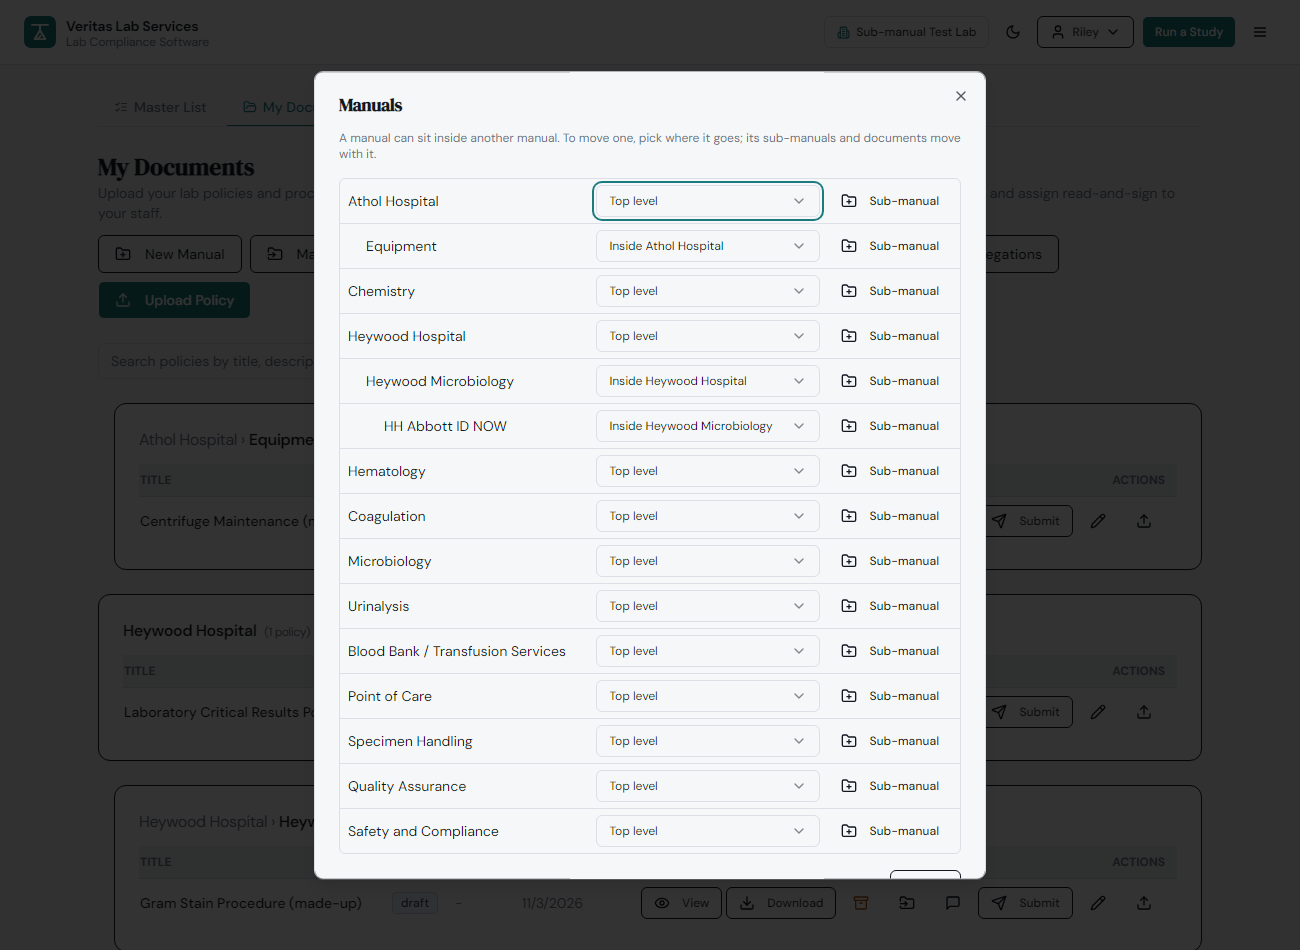
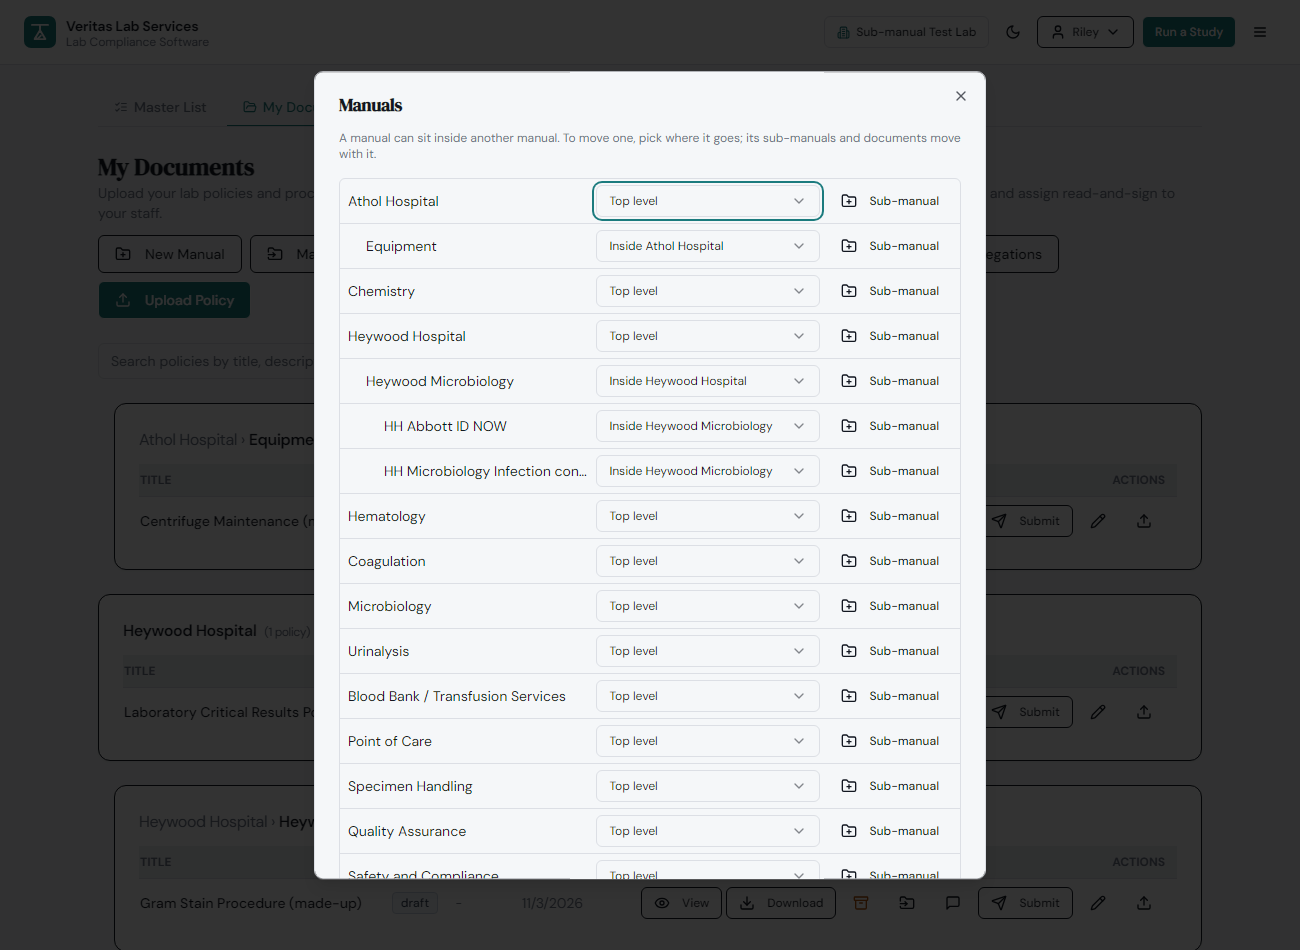
fix(veritadc): a long manual name no longer pushes the Manuals dialog past its edge
TASK: Production check of #1793 on lab 24 (QA system, 2026-11-04) showed the Manuals dialog's rows and Close button cut off at the right when a manual had a long name: the dialog is a CSS grid, so the tree grew to its longest name. Heywood has long names ("HH Microbiology Infection control/Epidemiology").
PLAN:
  1. min-w-0 on the tree so names truncate (full path on hover); shrink-0 on the move control and the Sub-manual button so they keep their size.
  2. scripts/verify-veritadc-submanuals-ui.mjs adds a long-named sub-manual and checks every row and Close sit inside the dialog.
Self-check:
  - Against the page without the fix the new check FAILS (rows reach 1303px, dialog edge 986px); with it ALL PASS (13 checks; rows 960px).
  - tsc clean; the rendered dialog was looked at: the long name truncates, nothing else moved.

diff --git a/client/src/pages/VeritaPolicyMyPoliciesPage.tsx b/client/src/pages/VeritaPolicyMyPoliciesPage.tsx
@@ -2146,7 +2146,9 @@ export default function VeritaPolicyMyPoliciesPage() {
             A manual can sit inside another manual. To move one, pick where it goes; its sub-manuals and
             documents move with it.
           </p>
-          <div className="divide-y border rounded-md" data-testid="manuals-tree">
+          {/* min-w-0: the dialog is a grid, so without it a long manual name widens the tree past the dialog's edge
+              (seen on production 11/4); with it, long names truncate and the full path shows on hover. */}
+          <div className="divide-y border rounded-md min-w-0" data-testid="manuals-tree">
             {manuals.map((m) => {
               const blocked = descendantIds(manuals, m.id);
               return (
@@ -2159,7 +2161,7 @@ export default function VeritaPolicyMyPoliciesPage() {
                     onValueChange={(v) => moveManualMutation.mutate({ id: m.id, parentId: v === TOP_LEVEL ? null : Number(v) })}
                     disabled={isReadOnly || moveManualMutation.isPending}
                   >
-                    <SelectTrigger className="h-8 w-56 text-xs" aria-label={`Where ${m.name} sits`} data-testid={`manual-parent-${m.id}`}>
+                    <SelectTrigger className="h-8 w-56 shrink-0 text-xs" aria-label={`Where ${m.name} sits`} data-testid={`manual-parent-${m.id}`}>
                       {/* The trigger names just the parent; the list shows full paths. */}
                       <SelectValue>
                         {m.parent_id ? `Inside ${manuals.find((o) => o.id === m.parent_id)?.name ?? "another manual"}` : "Top level"}
@@ -2180,7 +2182,7 @@ export default function VeritaPolicyMyPoliciesPage() {
                     hidden={isReadOnly}
                     size="sm"
                     variant="ghost"
-                    className="h-8 text-xs"
+                    className="h-8 shrink-0 text-xs"
                     onClick={() => { setManualsOpen(false); openNewManual(m.id); }}
                     title={`Add a sub-manual inside ${m.name}`}
                   >
